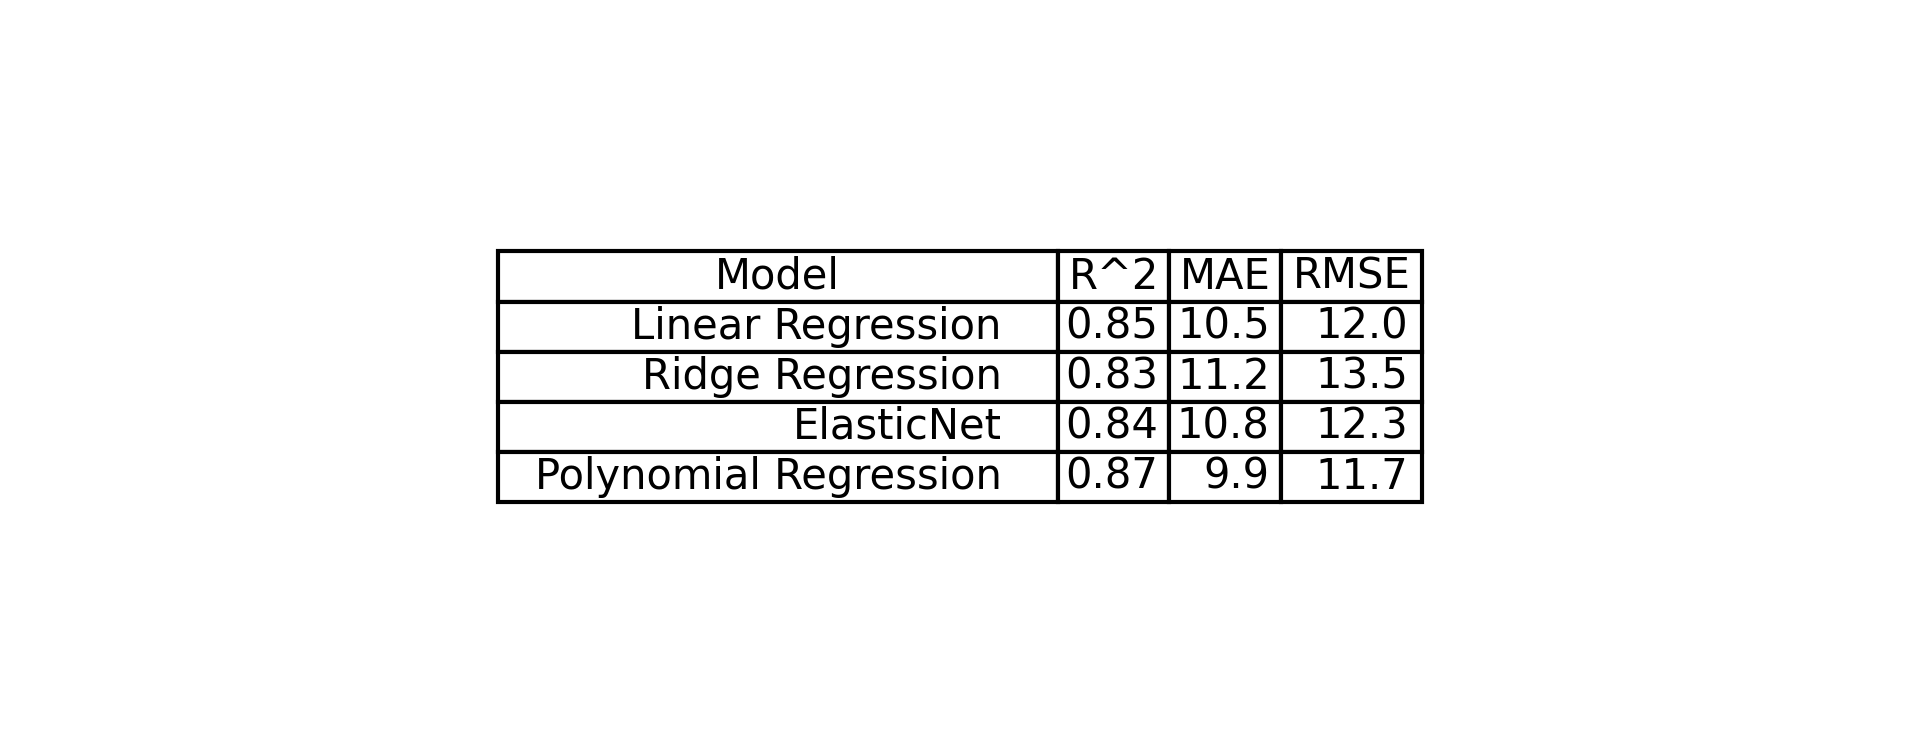
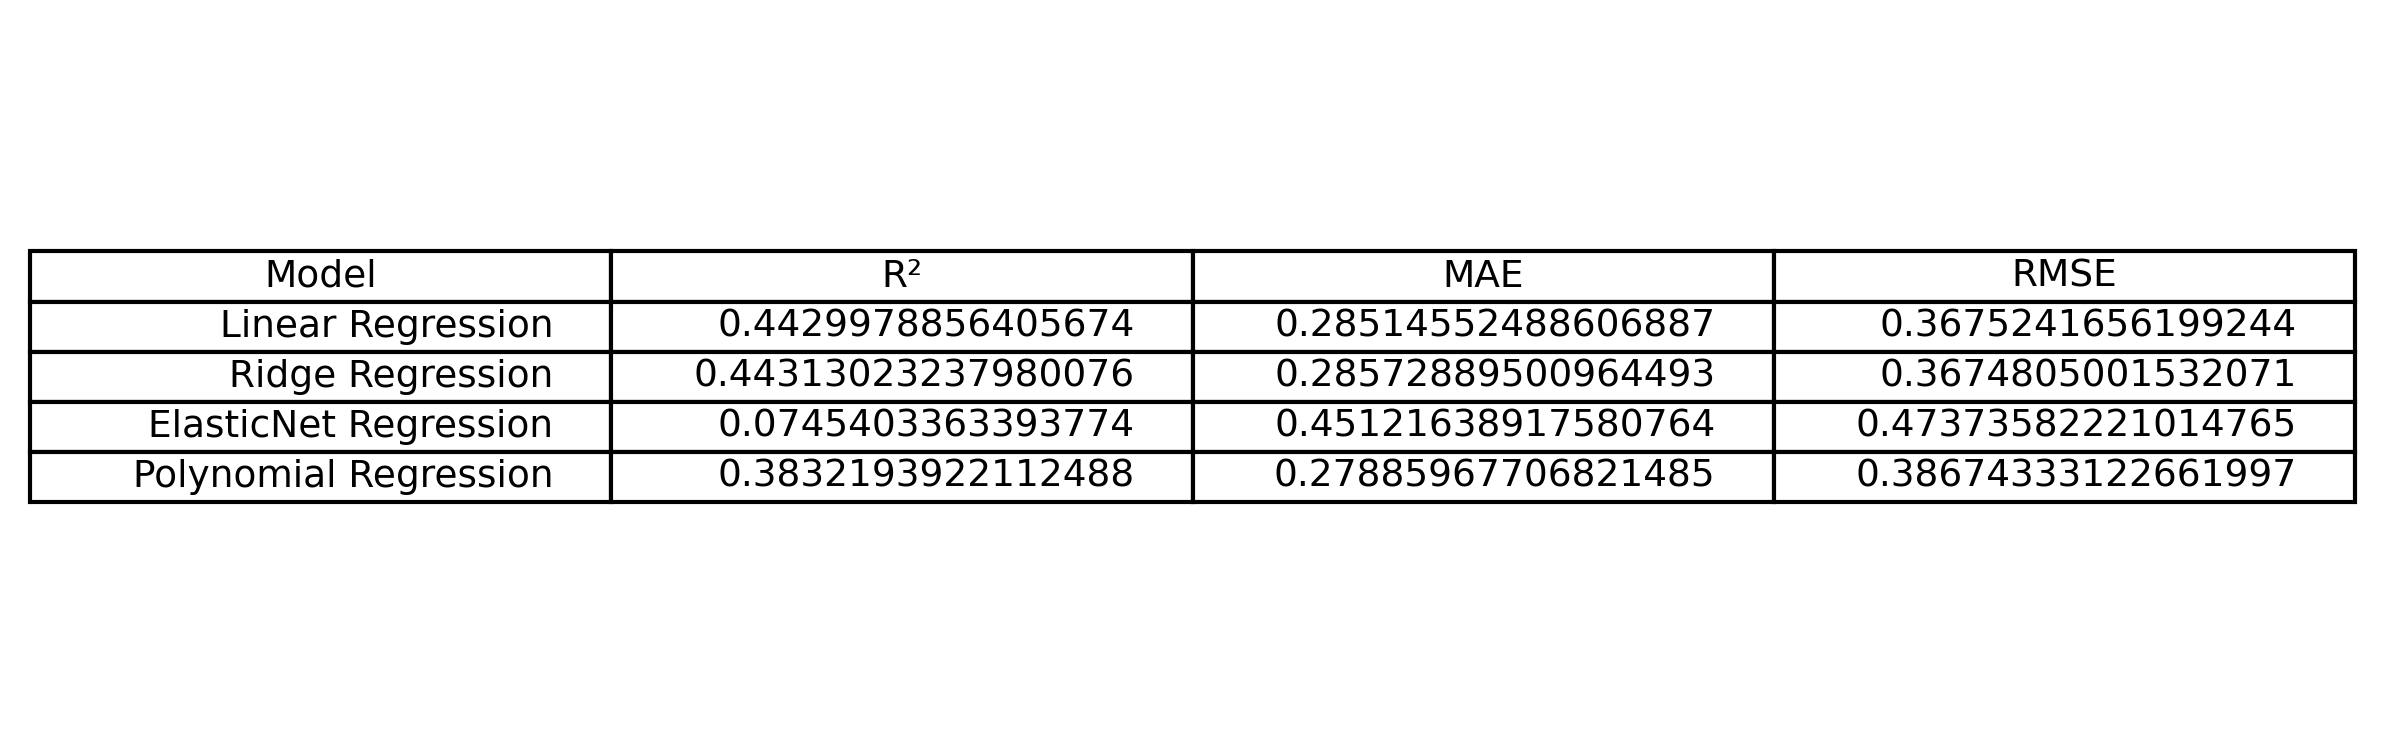
Updated generate_results_table.py, fixed output table, and added results

Changed region(s): [[0.0, 0.3054, 1.0, 0.672]]

diff --git a/lab04/generate_results_table.py b/lab04/generate_results_table.py
@@ -1,36 +1,33 @@
-import pandas as pd
 import matplotlib.pyplot as plt
-from sklearn.linear_model import LinearRegression, Ridge, ElasticNet
-from sklearn.preprocessing import PolynomialFeatures
-from sklearn.metrics import mean_absolute_error, mean_squared_error, r2_score
+from tabulate import tabulate
 
-# Example function to generate a results table
-def generate_results():
-    # Here you would load and process your data (e.g., Titanic dataset)
-    # This is just a mock-up example
-    data = {
-        'Model': ['Linear Regression', 'Ridge Regression', 'ElasticNet', 'Polynomial Regression'],
-        'R^2': [0.85, 0.83, 0.84, 0.87],
-        'MAE': [10.5, 11.2, 10.8, 9.9],
-        'RMSE': [12.0, 13.5, 12.3, 11.7],
-    }
+# Define your model evaluation results
+models = ['Linear Regression', 'Ridge Regression', 'ElasticNet Regression', 'Polynomial Regression']
+r2_scores = [0.4429978856405674, 0.44313023237980076, 0.0745403363393774, 0.3832193922112488]
+mae_scores = [0.28514552488606887, 0.28572889500964493, 0.45121638917580764, 0.27885967706821485]
+rmse_scores = [0.3675241656199244, 0.3674805001532071, 0.47373582221014765, 0.38674333122661997]
 
-    # Create DataFrame
-    df_results = pd.DataFrame(data)
+# Create the table data (without the "R²", "MAE", "RMSE" labels)
+table_data = []
+for i in range(len(models)):
+    table_data.append([models[i], r2_scores[i], mae_scores[i], rmse_scores[i]])
 
-    # Save the results table to a .png file
-    fig, ax = plt.subplots(figsize=(8, 3))
-    ax.axis('tight')
-    ax.axis('off')
-    table = ax.table(cellText=df_results.values, colLabels=df_results.columns, loc='center')
-    table.auto_set_font_size(False)
-    table.set_fontsize(10)
-    table.auto_set_column_width(col=list(range(len(df_results.columns))))
+# Define table headers
+headers = ['Model', 'R²', 'MAE', 'RMSE']
 
-    # Save the table as an image
-    plt.savefig('results_table.png', dpi=300, bbox_inches='tight')
-    plt.show()
+# Create the table string
+table = tabulate(table_data, headers=headers, tablefmt='grid')
 
-# Run the function to generate the table
-if __name__ == "__main__":
-    generate_results()
+# Print the table to see if it's correctly formatted
+print(table)
+
+# Create the plot (saving the table as an image)
+fig, ax = plt.subplots(figsize=(10, 3))  # Set the size of the table
+ax.axis('tight')
+ax.axis('off')
+ax.table(cellText=table_data, colLabels=headers, loc='center')
+
+# Save the table as an image
+plt.savefig('results_table.png', dpi=300, bbox_inches='tight')
+
+plt.show()  # Optionally show the table image
